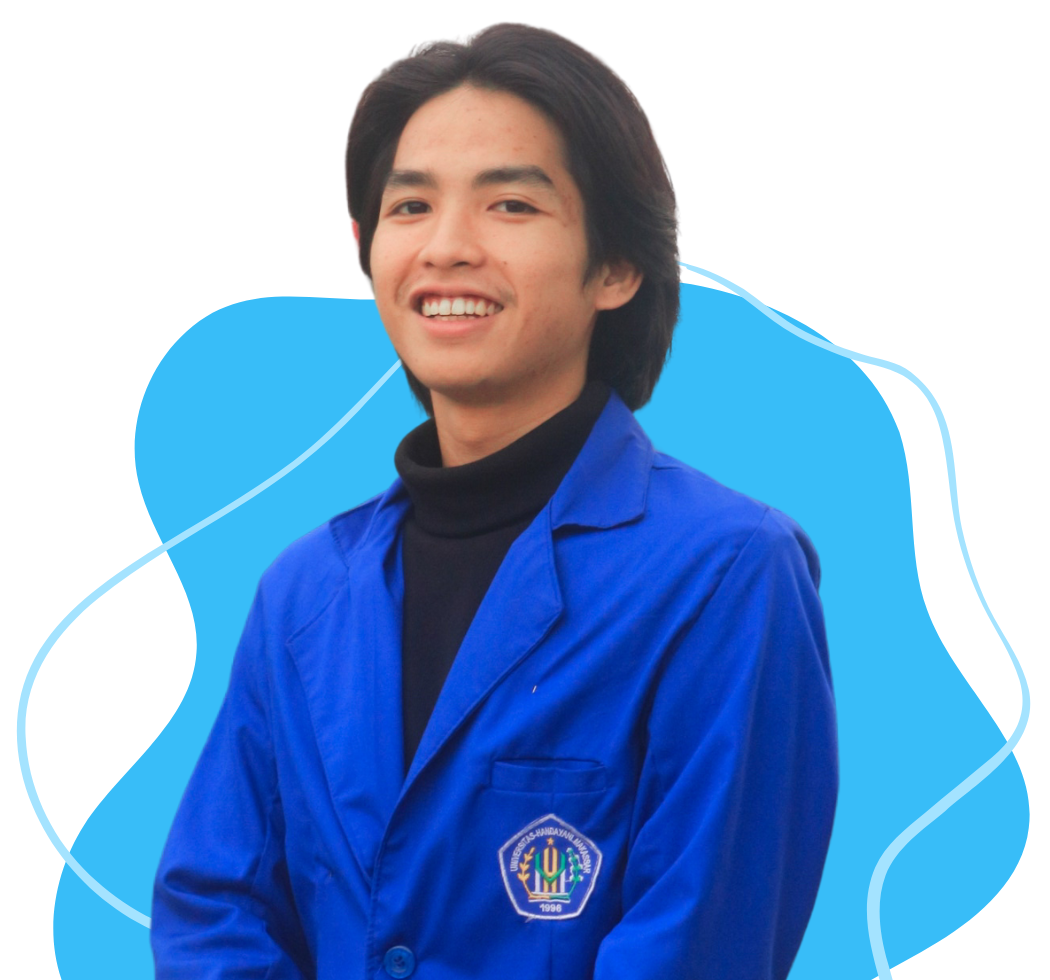
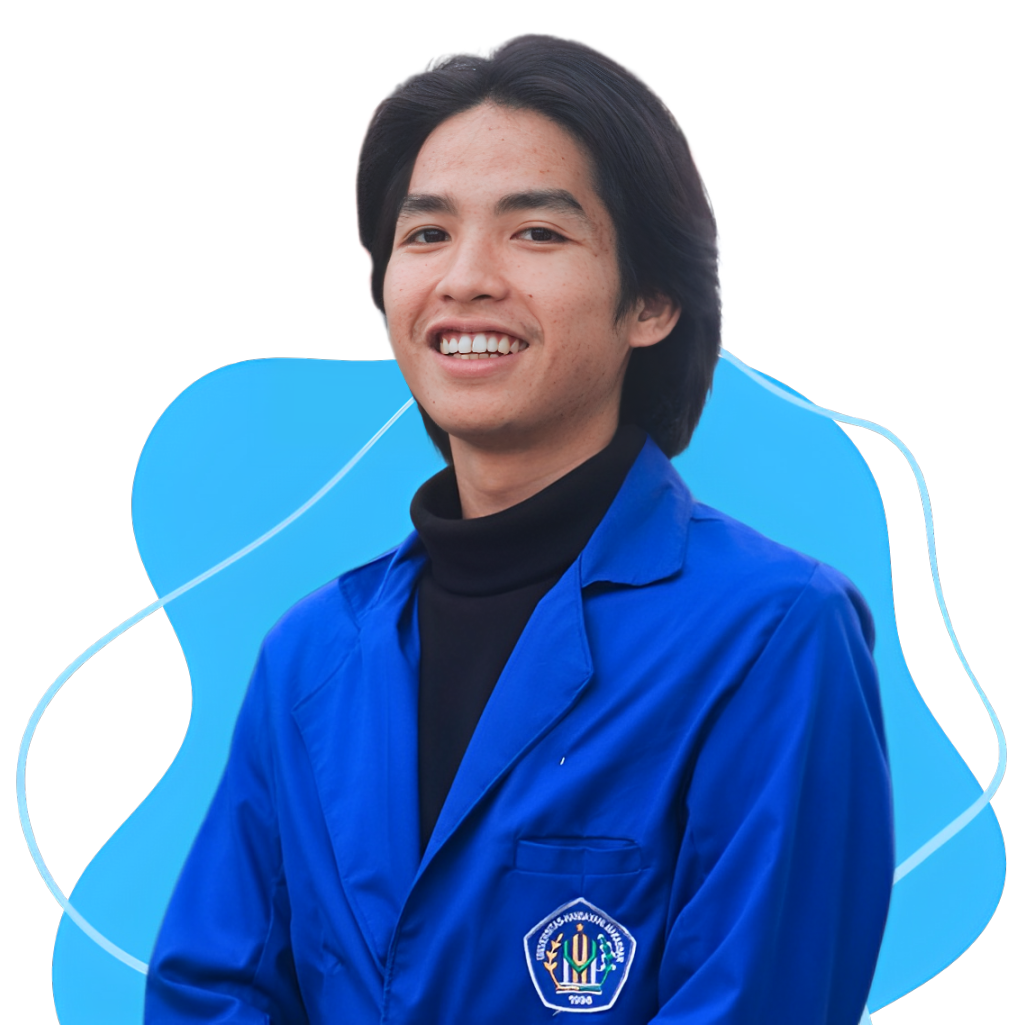
update foto & beberapa penyesuaian

diff --git a/index.html b/index.html
@@ -88,7 +88,8 @@
                     <h1 class="text-base font-semibold text-primary md:text-xl lg:text-2xl">Hallo Semua 😸, Saya <span
                             class="block font-bold text-dark text-4xl mt-1 lg:text-5xl dark:text-white">Yuliagus M.
                             Yunus</span></h1>
-                    <h2 class="font-medium text-secondary text-lg mb-5 lg:text-2xl lg:mt-1">Front End Dev |
+                    <h2 class="font-medium text-secondary text-lg mb-5 lg:text-2xl lg:mt-1 mt-1">Front End
+                        Dev |
                         <span class="text-dark dark:text-white">Designer</span> | Traveler
                     </h2>
                     <p class="font-medium text-secondary mb-5 leading-relaxed">Sebaik-baik manusia adalah yang
@@ -106,6 +107,7 @@
                     </div>
                 </div>
             </div>
+        </div>
         </div>
     </section>
     <!-- Hero Section End -->

diff --git a/src/output.css b/src/output.css
@@ -1318,11 +1318,6 @@ body {
   --tw-shadow: var(--tw-shadow-colored);
 }
 
-.dark\:hover\:text-white:hover:is(.dark *) {
-  --tw-text-opacity: 1;
-  color: rgb(255 255 255 / var(--tw-text-opacity, 1));
-}
-
 @media (min-width: 640px) {
   .sm\:text-4xl {
     font-size: 2.25rem;
